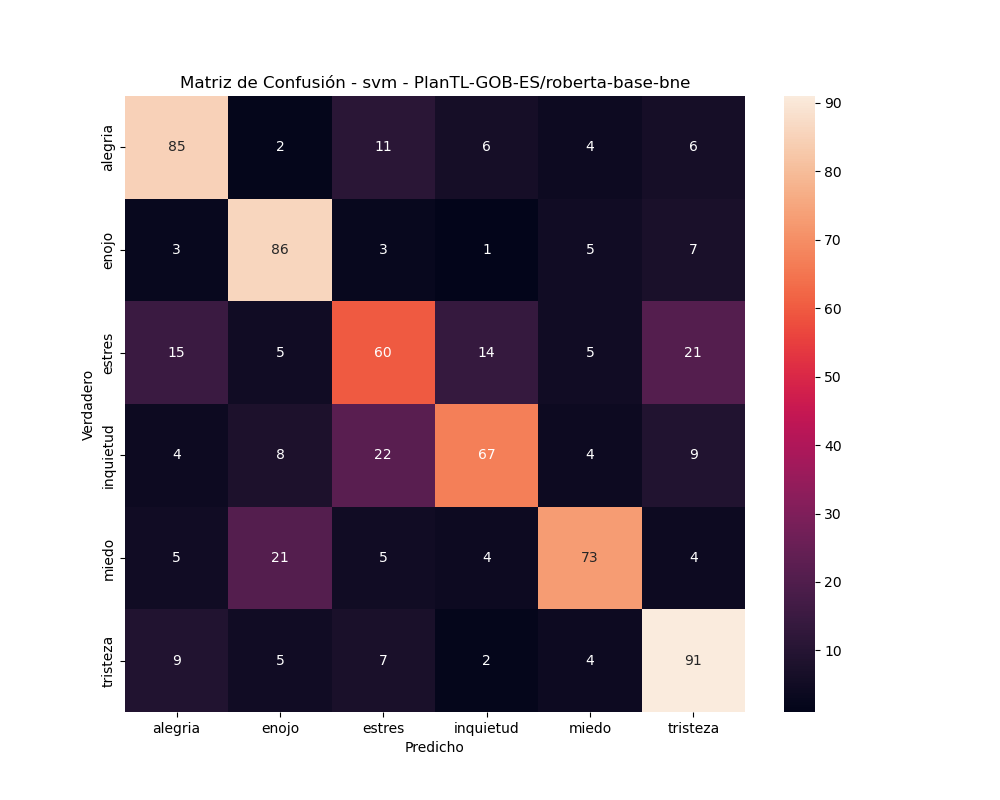
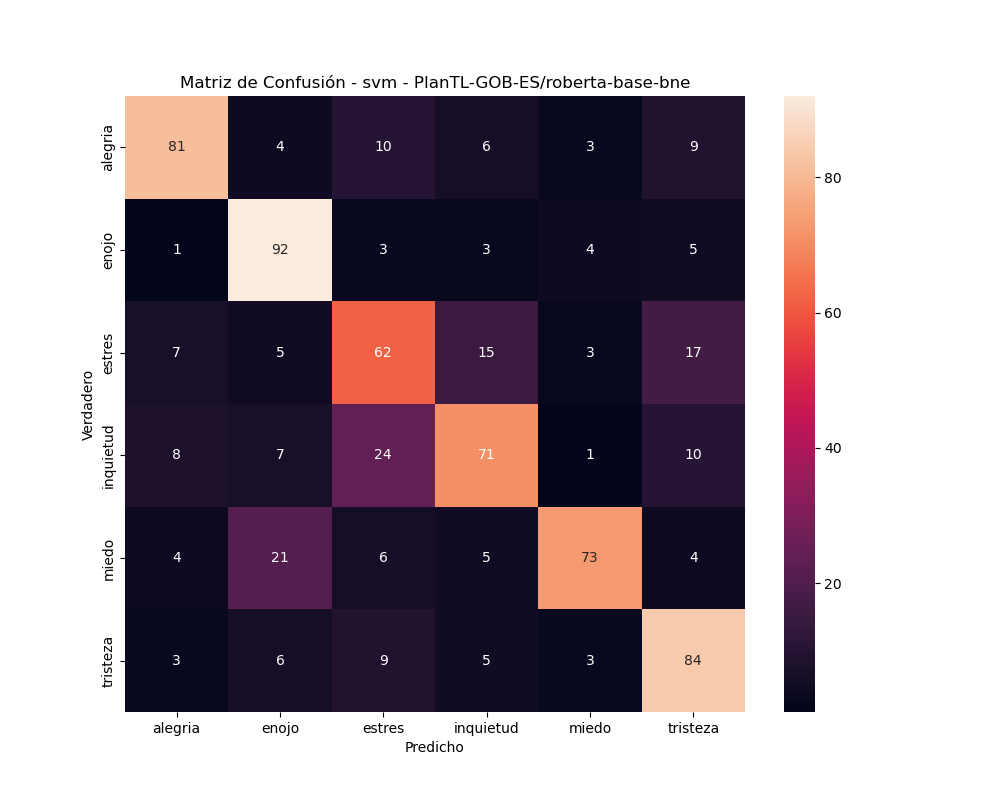
Adding more runs

diff --git a/sentiment_analyzer.py b/sentiment_analyzer.py
@@ -32,9 +32,9 @@ class SentimentAnalyzer:
             self.label_encoder = LabelEncoder()
             
             # Initialize SVM parameters
-            self.svm_c_parameter = 1
+            self.svm_c_parameter = 1.5
             self.svm_kernel_parameter = 'linear'
-            self.svm_tolerance_parameter = 0.01
+            self.svm_tolerance_parameter = 0.001
             self.svm_class_weight_parameter = None
             
             # Initialize all classifiers
@@ -205,7 +205,10 @@ def main():
     # Cargar datos
     df = pd.read_csv('dataset_normalizado_utf8.csv')
     
-    df =df[df['edad'] <= 30]
+    df = df[df['edad'] <= 30]
+    df = df[df['grado_estudios'] != "Maestría"]
+    df = df[df['nivel_socioeconomico'] != "Alto"]
+    
     analyzer = SentimentAnalyzer()
     
     # Input para las observaciones, con color amarillo para resaltar
